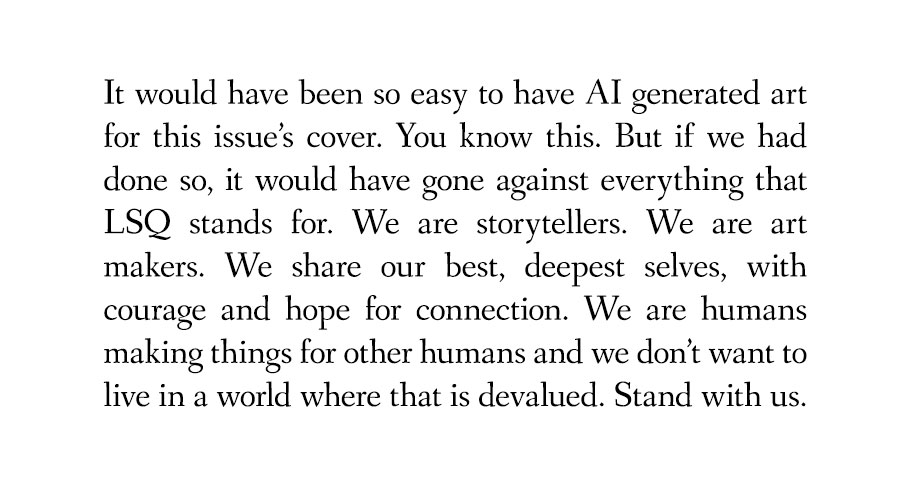
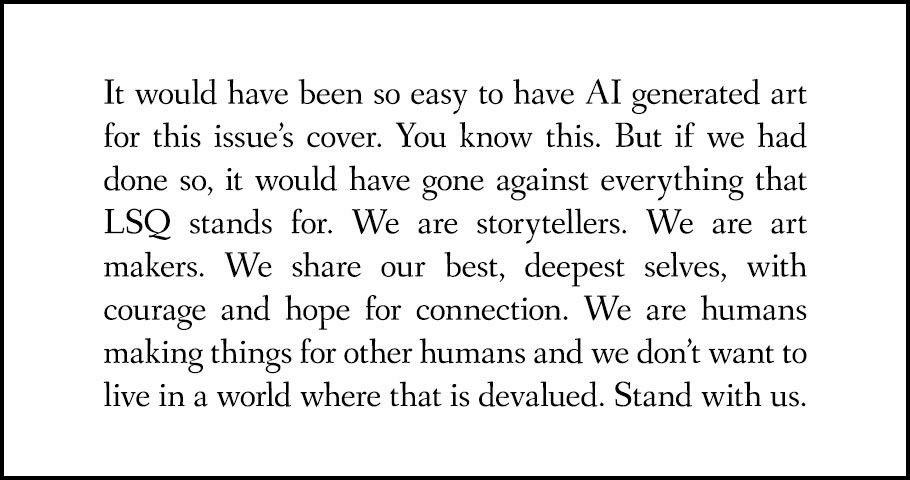
add launch post

Changed region(s): [[0.0, 0.0, 1.0, 1.0]]

diff --git a/src/content/blog/issue-066-launch.md b/src/content/blog/issue-066-launch.md
@@ -1,0 +1,45 @@
+---
+title: 'The June issue has docked for the summer'
+pubDate: 'June 1, 2026'
+author: Jennifer Lyn Parsons
+heroImage: 066-hero.jpg
+heroAltText: "It would have been so easy to have AI generated art for this issue’s cover. You know this. But if we had done so, it would have gone against everything that LSQ stands for. We are storytellers. We are art makers. We share our best, deepest selves, with courage and hope for connection. We are humans making things for other humans and we don’t want to live in a world where that is devalued. Stand with us."
+excerpt: Click the read more button to learn more about the issue and why our cover doesn't have any artwork.
+postCategory: News
+categorySlug: /news
+---
+
+You probably noticed something different about our cover this issue. There's no artwork, and no, that's not a mistake. Creative Director, Tara Lindsey and I have basically had it. AI has not only made it difficult for artists to create and sell their work but also made it more difficult for those who want to hire them to get in touch.
+
+In the place where I would usually be posting an interview with the artist below, instead I am posting my entire editorial from the issue. When you're done reading it, please check out the [issue page](https://www.lunastationquarterly.com/issues/065/) for all the details on how to get your copy.
+
+---
+
+It's tricky living in two worlds at the same time. There's one part of me that works a day job and has to sit with the fact that AI has taken over my industry. I'm not in a position where I can ignore it or pretend it's not having an impact or costing many many people their livelihood. While I'm fortunate to not be in a situation where I'm forced to use it, it's not something I can ignore on a day-to-day basis. The impact is inescapable.
+
+Of course all of that flies directly in the face of Luna Station and our mission to open doors for new and emerging writers. We have been many people's first publication credit. I don't take that lightly. It's one of the joys of being in this role and running Luna Station: I get to show you all the work of people you may not have read before or people you couldn't have read before. 
+
+We've received a number of AI-generated stories in our submissions. I'm pleased to say that, unless someone has done a really good job of hiding it, none of them have slipped through the cracks and into the issues. In fact the AI writing is poor enough that those stories are generally pretty easy to pick up on and don't make it past the first round. I don't know how long that will last. 
+
+While the AI is getting better at what it does in many ways, particularly with audio and video, I have to tell you, as someone who has been neck-deep in it for over a year, that the quality of the writing has not really improved. It's still trained on the same materials and is building on that training and I just haven't seen any big leaps forward in prose quality. It has patterns that seem to be really hard to get it to break out of and that's a good thing for those of us who invest time and energy into human-written prose. 
+
+So wordsmithing feels safer than I thought it would at this point in time when I was looking at this stuff last year. It's very encouraging actually. However our companions on this creative journey, the visual artists who grace the Luna Station covers, I am genuinely concerned for. 
+
+The problem is two-fold: The first one is pretty obvious. AI can generate some pretty impressive artwork. It's being created on the backs of all of the artists whose work has been scraped and ingested into training data. That's a fact. In the hands of some artists, some interesting work has been produced, making it all the more tempting for folks to generate whatever artwork they're looking for. It's a whole lot easier to write a prompt and get back a polished piece of art, as long as you're not too picky about the details or accuracy. I would hope that at this point everything I just said there is obvious to those of you reading this. 
+
+There is a second challenge that AI presents and it's one of the reasons why the cover for this issue looks the way it does. Artists can no longer trust their inboxes. To some degree none of us can trust our inboxes. This is hampering both their businesses and our ability to support them in their work. 
+
+For some personal experience, I put my most recent book out in December. A week later I received an email that was thousands of words long, offering to promote my book for me and telling me how special my book was and that it deserved to be read. This means that my work was purchased by someone, fed into an AI, and the details of that book were then used to send me a personalized marketing spam. 
+
+I'm guessing that artists are receiving very similar marketing spam. I say "I'm guessing" because none of the emails I've sent to artists to offer a licensing agreement for their work has gotten any response. I am out here trying very hard to contact artists whose work I admire and who have work available for licensing and we can't seem to get connected. 
+
+A year and a half ago this was a little challenging but not a problem. As the deadlines for this issue approached, I ran out of time. No one had responded to my queries and so I had a choice. It would be easy now to fill our cover with a gorgeous piece of artwork generated by AI and personalized to the themes of this issue, based on the stories that were written. There's no fucking way I'm going to do that. 
+
+So instead, Creative Director Tara Lindsey and I sat down and made a choice. The cover that you see contains her words, our shared statement on the situation. I am using the lack of cover art for this issue to draw attention to the challenges being faced by artists and creatives. The AI may or may not eat its own tail. The slop may eventually become boring. But regardless, the aftermath of this upheaval is going to be a long, challenging recovery. 
+
+So what do we do? We support in whatever way we can. For now, I want you to go to our artist gallery on our website and click on something that grabs your attention. Go visit that artist's website. Go support them on social media. Go buy their prints, bookmarks, and stickers. Go support the humans. 
+
+And when you're done, come back and read the stories in this issue. There's a lot of humans in here and even the things that don't seem human hold their own humanity. And it's all written by humans, for humans. 
+
+Fuck AI.
+
